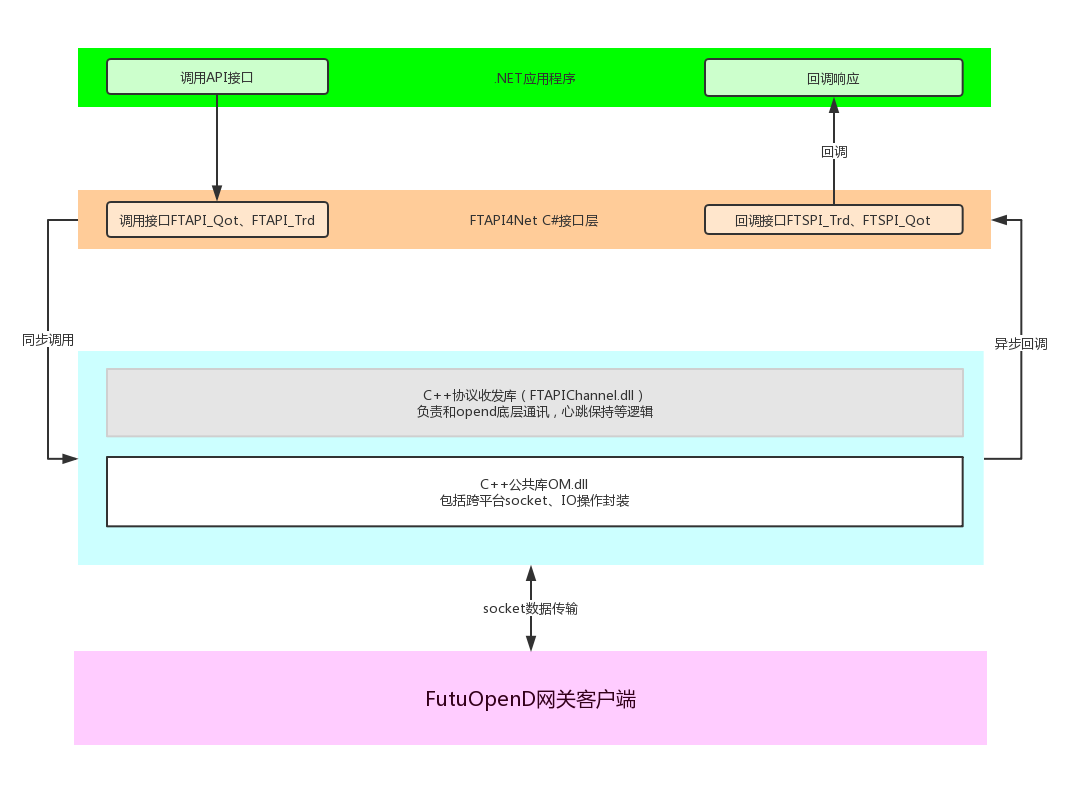
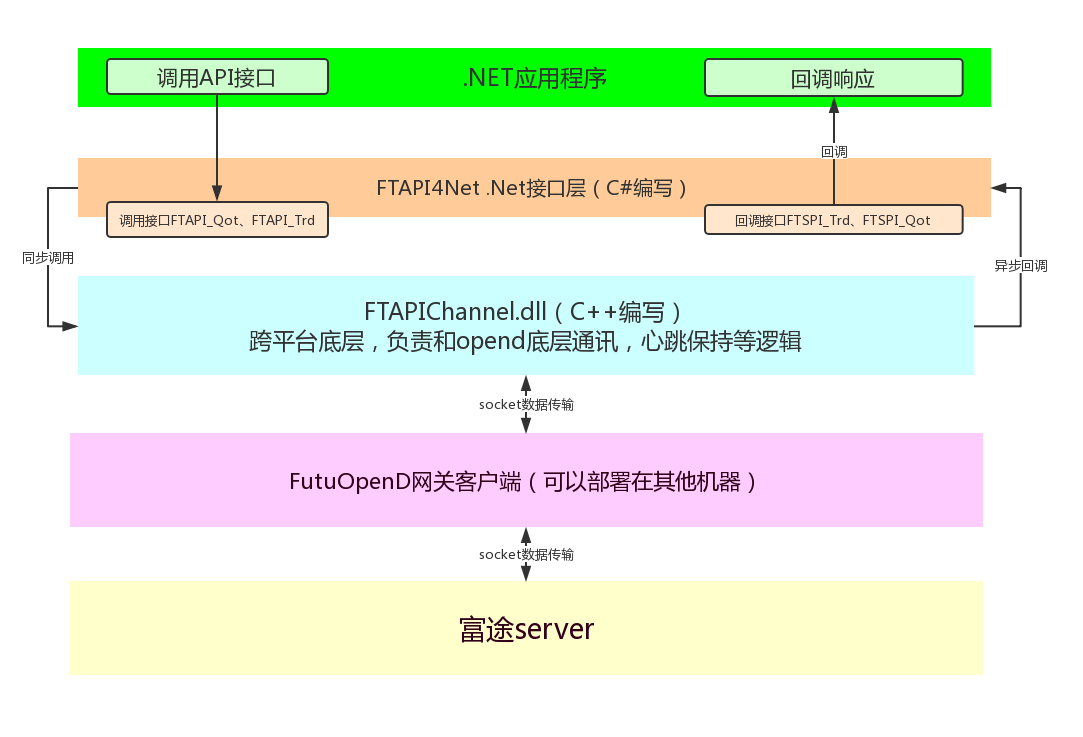
优化文档

diff --git a/doc_maker/source/net/intro.rst b/doc_maker/source/net/intro.rst
@@ -12,11 +12,11 @@
 .. _intro: ../intro/intro.html
 
 
-FTAPI4Net介绍
+.NET API简介
 -------------
-  * FTAPI4Net依赖FutuOpenD网关客户端，需要先运行登录 FutuOpenD_
+  * .NET API依赖FutuOpenD网关客户端，需要先运行登录 FutuOpenD_
 
-  * FTAPI4Net开源了调用库代码，FTAPI4Net.sln采用VS2013编译，要求平台.NET Framework 4.5，用户可以根据需要采用更新的VS版本升级源码后编译目标调用库
+  * .NET API开源了调用库代码，FTAPI4Net.sln采用VS2013编译，要求平台.NET Framework 4.5，用户可以根据需要采用更新的VS版本升级源码后编译目标调用库
 
   * FTAPI4NetSample提供了几个简单的行情和交易获取demo，可以用于上手学习。
 
@@ -30,13 +30,27 @@ FTAPI4Net介绍
 .. note::
    因为涉及到底层Native线程和.NET线程回调的问题，回调时需要特别注意自己的代码所处的线程。
 
+代码结构
+-------------
+
+.. code-block:: text
+
+	|-- FTAPI4Net
+	|   |-- FTCAPI.cs  Native接口导入类
+	|   `-- pb  pb自动生成文件，用于组包解包pb
+	|   |-- FTAPI_Trd.cs 交易接口和交易操作函数
+	|   |-- FTAPI_Qot.cs 行情接口和交易操作函数
+	|   |-- FTAPI.cs 连接层接口
+	|    
+	`-- FTAPI4NetSample 演示demo
+
 调用须知
 -------------
   * FTSPI_Conn、FTSPI_Qot、FTSPI_Trd调用和回调会在不同线程，注意线程安全问题。
 
   * 所有接口以异步回调方式完成
 
-  * FTAPI4Net\lib目录下的FTAPIChannel.dll、OM.dll文件记得拷贝到程序运行目录下
+  * FTAPI4Net\lib目录下的FTAPIChannel.dll件记得拷贝到程序运行目录下
 
 
 --------------
@@ -79,18 +93,18 @@ FTAPI4Net介绍
   .. _UpdateOrderBook: ../protocol/quote_protocol.html#qot-updateorderbook-proto-3013
   .. _UpdateBroker: ../protocol/quote_protocol.html#qot-updatebroker-proto-3015
   .. _UpdateOrderDetail: ../protocol/quote_protocol.html#qot-updateorderdetail-proto-3017
-  .. _GetAccList: ../protocol/quote_protocol.html#trd-getacclist-proto-2001
-  .. _UnlockTrade: ../protocol/quote_protocol.html#trd-unlocktrade-proto-2005
-  .. _SubAccPush: ../protocol/quote_protocol.html#trd-subaccpush-proto-2008
-  .. _GetFunds: ../protocol/quote_protocol.html#trd-getfunds-proto-2101
-  .. _GetPositionList: ../protocol/quote_protocol.html#trd-getpositionlist-proto-2102
-  .. _GetMaxTrdQtys: ../protocol/quote_protocol.html#trd-getmaxtrdqtys-proto-2111
-  .. _GetOrderList: ../protocol/quote_protocol.html#trd-getorderlist-proto-2201
-  .. _GetOrderFillList: ../protocol/quote_protocol.html#trd-getorderfilllist-proto-2211
-  .. _GetHistoryOrderList: ../protocol/quote_protocol.html#trd-gethistoryorderlist-proto-2221
-  .. _GetHistoryOrderFillList: ../protocol/quote_protocol.html#trd-gethistoryorderfilllist-proto-2222
-  .. _UpdateOrder: ../protocol/quote_protocol.html#trd-updateorder-proto-2208
-  .. _UpdateOrderFill: ../protocol/quote_protocol.html#trd-updateorderfill-proto-2218
+  .. _GetAccList: ../protocol/trade_protocol.html#trd-getacclist-proto-2001
+  .. _UnlockTrade: ../protocol/trade_protocol.html#trd-unlocktrade-proto-2005
+  .. _SubAccPush: ../protocol/trade_protocol.html#trd-subaccpush-proto-2008
+  .. _GetFunds: ../protocol/trade_protocol.html#trd-getfunds-proto-2101
+  .. _GetPositionList: ../protocol/trade_protocol.html#trd-getpositionlist-proto-2102
+  .. _GetMaxTrdQtys: ../protocol/trade_protocol.html#trd-getmaxtrdqtys-proto-2111
+  .. _GetOrderList: ../protocol/trade_protocol.html#trd-getorderlist-proto-2201
+  .. _GetOrderFillList: ../protocol/trade_protocol.html#trd-getorderfilllist-proto-2211
+  .. _GetHistoryOrderList: ../protocol/trade_protocol.html#trd-gethistoryorderlist-proto-2221
+  .. _GetHistoryOrderFillList: ../protocol/trade_protocol.html#trd-gethistoryorderfilllist-proto-2222
+  .. _UpdateOrder: ../protocol/trade_protocol.html#trd-updateorder-proto-2208
+  .. _UpdateOrderFill: ../protocol/trade_protocol.html#trd-updateorderfill-proto-2218
   
 ---------------------------------------------------
 
@@ -98,7 +112,7 @@ FTAPI4Net介绍
 主要函数列表
 ---------------
 
-行情类FTAPI_Qot:
+行情类FTAPI_Qot
 ~~~~~~~~~~~~~~~~~~~~~~~~~~~~~~~
 ================================    ==============================================   ==============================
 函数名（点开链接可查看具体协议）        功能简介                                         回调函数(FTSPI_Qot)            
@@ -135,7 +149,7 @@ GetUserSecurity_                    获取自选股分组下的股票           
 ModifyUserSecurity_                 修改自选股分组下的股票                           OnReply_ModifyUserSecurity
 ================================    ==============================================   ==============================
 
-FTSPI_Qot行情推送接收接口函数:
+FTSPI_Qot行情推送接收接口函数
 ~~~~~~~~~~~~~~~~~~~~~~~~~~~~~~~
 ==================================    =================================================
 回调函数（点开链接可查看具体协议）                                功能简介          
@@ -151,7 +165,7 @@ UpdateOrderDetail_                    推送委托明细
 ==================================    ================================================= 
 
 
-交易类FTAPI_Trd:
+交易类FTAPI_Trd
 ~~~~~~~~~~~~~~~~~~~~~~~~~~~~~~~
 ================================    ==============================================   ==============================
 函数名（点开链接可查看具体协议）        功能简介                                         回调函数(FTSPI_Trd)            
@@ -168,7 +182,7 @@ GetHistoryOrderList_                获取历史订单列表                    
 GetHistoryOrderFillList_            获取历史成交列表                                 OnReply_GetHistoryOrderFillList
 ================================    ==============================================   ==============================
 
-FTSPI_Trd交易推送接收接口函数:
+FTSPI_Trd交易推送接收接口函数
 ~~~~~~~~~~~~~~~~~~~~~~~~~~~~~~~
 ==================================    =================================================
 回调函数（点开链接可查看具体协议）                                功能简介          

diff --git a/doc_maker/source/index.rst b/doc_maker/source/index.rst
@@ -40,7 +40,7 @@ futuapi documentation
 
 .. toctree::
 	:caption: .Net API
-	:maxdepth: 4
+	:maxdepth: 2
 	:hidden:
 
 	net/intro
